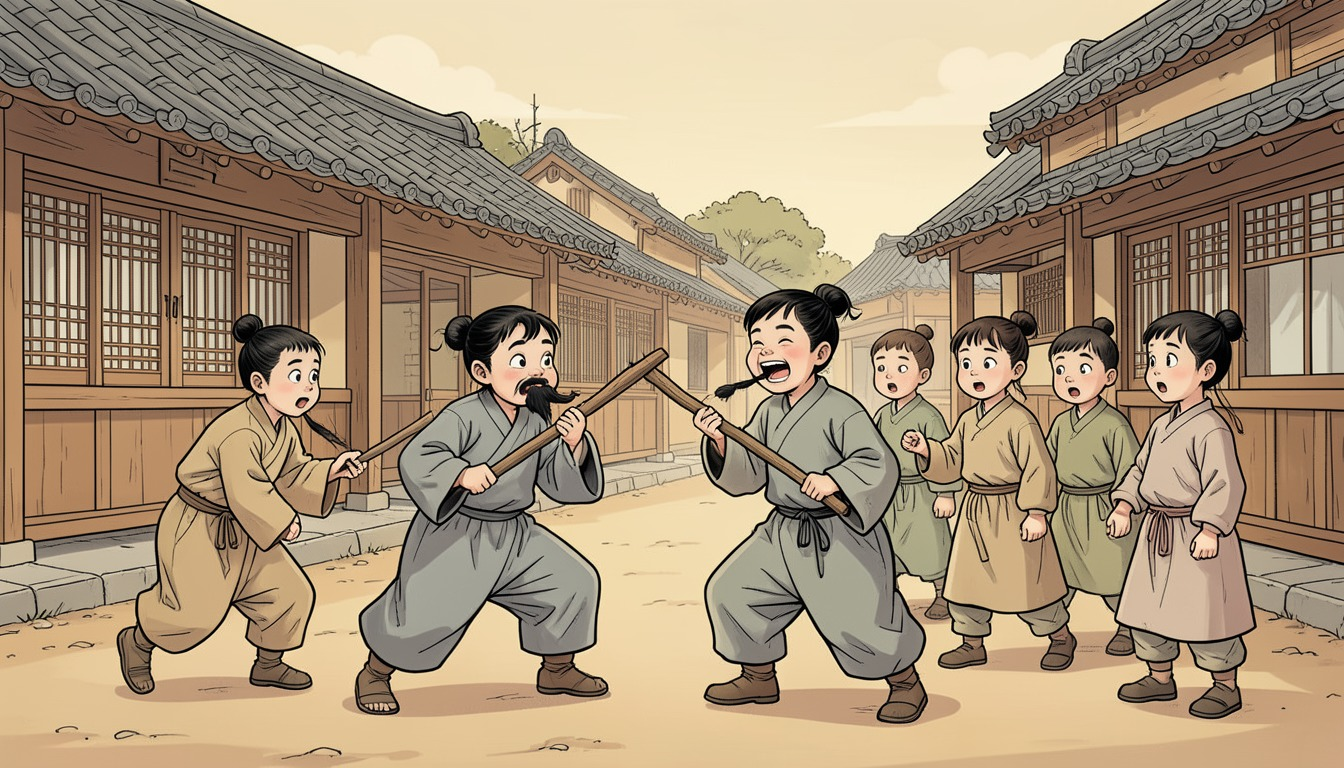
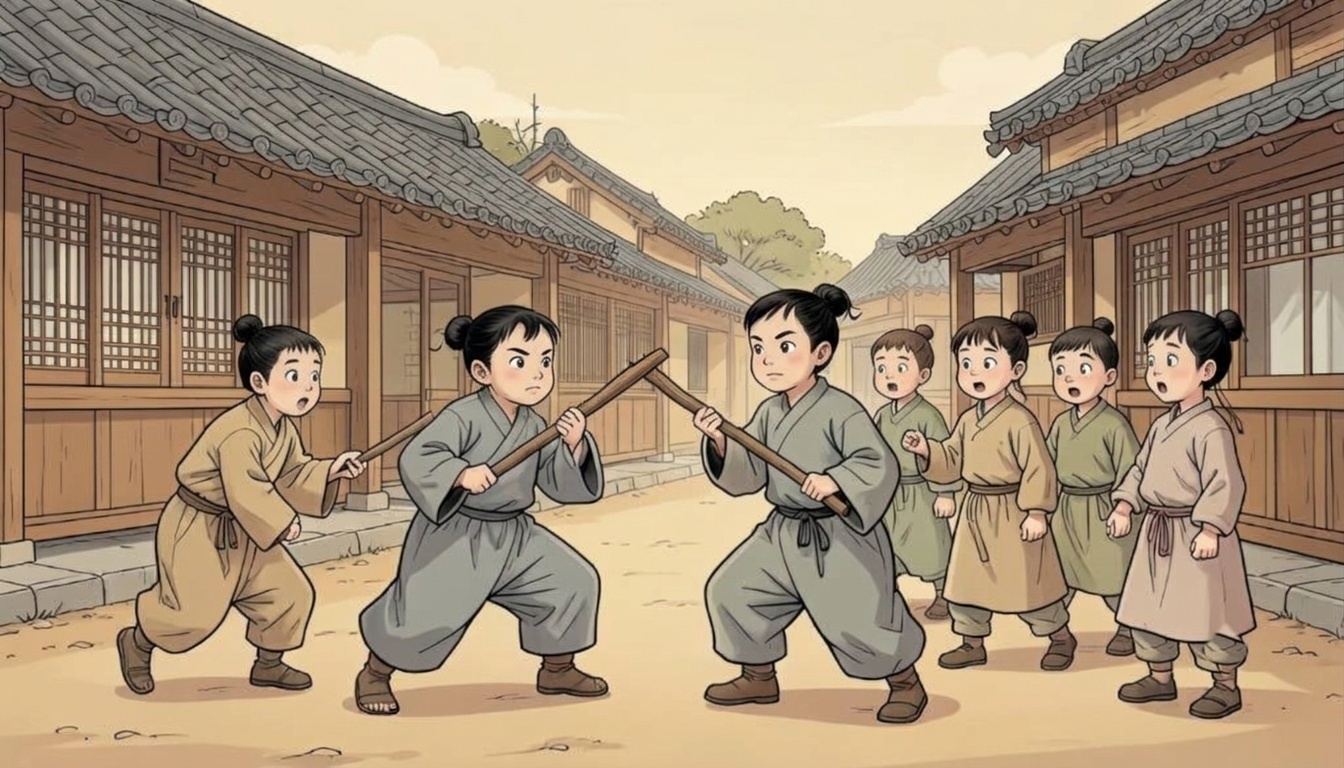
TQ10: thay ảnh 051 (bản chủ kênh sửa), viết lại 24 prompt Veo cụ thể theo mốc thời gian [skip ci]
Claude-Session: https://claude.ai/code/session_01H1Wbxj9sAcUYRQ6Wju6xqR

diff --git a/ke-hoach/vi-sao-ghet-tao-thao-veo.md b/ke-hoach/vi-sao-ghet-tao-thao-veo.md
@@ -1,7 +1,7 @@
 # Vì sao cả ngàn năm người ta ghét Tào Tháo? — Clip Veo (nhóm A, 24 clip)
 
 Soạn 03/11/2026 sau khi xem cả 74 ảnh ở cỡ lớn. **Tổng ảnh: 74. Số clip Veo: 24 (≥ 20). Số cảnh hoạt hình nhẹ: 16. Số ảnh tĩnh: 34.**
-Chọn theo tầm quan trọng của câu chuyện (mở đầu, lúc bước ngoặt, câu hỏi cuối), mỗi clip chỉ một hành động nhỏ và chậm kèm chuyển động phụ (gió, khói, nước, vạt áo, ánh sáng) để cảnh sống động mà ảnh không bị vẽ lại. Có 21 clip dự phòng cho trường hợp Veo vẽ lại khung đầu hoặc mọc thêm tay.
+Chọn theo tầm quan trọng của câu chuyện (mở đầu, lúc bước ngoặt, câu hỏi cuối), mỗi clip có diễn biến rõ ràng theo mốc thời gian (0-3 giây, 3-6 giây, 6-8 giây) hoặc chuỗi hành động cụ thể: người làm gì, phản ứng ra sao, máy quay đi thế nào, kèm chuyển động phụ (gió, khói, nước, vạt áo, ánh sáng) để cảnh sống động mà ảnh không bị vẽ lại. Có 21 clip dự phòng cho trường hợp Veo vẽ lại khung đầu hoặc mọc thêm tay.
 Lưu clip ở `assets/clips_2d/TQ10/NNN.mp4` (NNN = số câu = số ảnh), kèm `danh_sach.json`. Chủ kênh tạo clip trong Google Flow.
 
 ## Nhóm A — Veo (24 clip)
@@ -18,30 +18,30 @@ Chọn "Frames to Video", tải ảnh `assets/anh_2d/TQ10/NNN.jpg` làm khung đ
 
 | Ảnh | Câu | Cảnh (chỉ để tra, KHÔNG dán vào Veo) | Prompt chuyển động (dán sau tiền tố) |
 |---|---|---|---|
-| 001 | 1 | Con phố thành thị thời Tống buổi sáng, người đi lại, quán có mái vải, một xe kéo | Slow gentle push-in down the lively market street: townspeople stroll in both directions, a man pulls a small wooden cart, the cloth shop awnings ripple in a light breeze, a seated customer lifts his head to watch the passers-by, warm dust glows in the morning light. |
-| 002 | 2 | Người kể chuyện áo nâu đứng trên bục gỗ, sáu đứa trẻ ngồi quanh | Slow push-in towards the storyteller on the low wooden platform: he sweeps one raised arm in a wide storytelling gesture, his long sleeve swinging, then lowers it; the seated children lean forward together, their heads tilting and turning to follow his hand, a few shuffle on their knees with open-mouthed excitement. |
-| 003 | 3 | Lũ trẻ ngồi thành hàng, đứa khóc, đứa giơ nắm tay reo hò | Gentle camera sway as the children seated in a row react: the ones with tears sniff and rub their eyes, then the others thrust their raised fists up and down in joyful bursts with mouths wide open, topknots bouncing, small dust puffs rising from the ground. |
-| 012 | 12 | Người trẻ áo xanh đậm đối mặt ông già tóc râu bạc trong sân | Very slow lateral drift between the two men standing face to face in the courtyard: the young man's stern frown slowly softens into a pleased, proud smile while the white-bearded elder studies him and gives a slow nod, their sleeves and sashes sway in a light breeze, a few leaves skitter across the paving. |
-| 014 | 14 | Người viết sử ngồi trước bàn thấp trong sân, cầm bút | Very slow drift to the right as the scholar kneeling at the low table draws his brush smoothly across a scroll, pauses, dips it and writes again, his shoulders rise with a quiet breath, the grass at the courtyard edge sways and a breeze ruffles his sleeve. |
-| 021 | 21 | Dân chạy loạn đi dọc kênh, xe bò chở đồ, khói ở làng xa | Slow lateral tracking as the villagers move along the canal road: the ox carts roll forward with their wheels turning, a lone traveller trudges on carrying a bundle, grey smoke columns drift up from the village and the hills, the canal water ripples. |
-| 023 | 23 | Người đàn ông cao áo đen đứng cạnh cậu bé ngồi bên bàn | Very slow push-in as the tall man at the table presses his hand on it and turns his head to look down at the seated child; the child lifts his eyes to the man with a worried glance and his fingers shift on the table edge, soft light drifts across the wall. |
-| 027 | 27 | Người áo đen đưa chiếc mũ đen cao cho người áo xám đang đưa tay đón | Slow push-in as the man in black slowly holds out the tall black hat towards the man in grey, who reaches out and takes hold of its cord; the man in black gives a measured nod, their sleeves sway, wind stirs the sashes. |
-| 028 | 28 | Người chèo thuyền trên sông, buồm trắng, thuyền khác ở xa | Slow tracking alongside the boat as the boatman steers it forward along the river, the white sails billow, ripples spread behind the hull, distant boats glide, mist drifts over the water, a bird crosses the sky. |
-| 029 | 29 | Người áo xám đi giữa con hẻm lát đá | Slow dolly back as the man walks steadily down the stone lane toward the camera, arms swinging gently, his sash and trouser hems swaying, long shadows slide along the paving, a leaf drifts across the path. |
-| 034 | 34 | Người râu ngắn viết ban đêm bên đĩa dầu có ngọn lửa nhỏ, cạnh một bọc vải | Locked camera with slow drift: the writer at the night table moves his brush in short deliberate strokes, the small oil dish flame flickers and throws shifting warm light across his face and the cloth bundle, stars twinkle, a night breeze stirs his topknot. |
-| 036 | 36 | Người áo dài đi khuất dần trên con đường đất ướt, nhà đổ ở xa | Slow follow behind as the man in a long robe walks away down the damp lane, puddles ripple at each step, his robe hem sways, mist drifts between the roofs, a distant ruined building sits in the haze. |
-| 038 | 38 | Người lữ khách đeo bó thẻ tre sau lưng đi giữa phố núi lúc chạng vạng | Slow push-in as the traveller strides forward with the bundle on his back, sandals stepping on the dusty lane, his sleeves swaying, dusk light shifting, mountain mist drifting behind him. |
-| 045 | 45 | Người áo đen đi trên lối giữa dãy nhà, hai đứa trẻ đi hai bên | Slow lateral tracking as the man walks along the path between the long houses with a child on each side, the three step in an easy rhythm, bamboo and pine boughs sway, their sleeves flutter, a bird crosses the sky. |
-| 048 | 48 | Người béo cười, áo nâu, đứng bên lan can cầu, kênh và hoàng hôn | Slow drift as the smiling man at the bridge railing leans slightly and breathes in the sunset air, his broad sleeve and sash stir in the breeze, he gives a small slow nod while golden light ripples on the canal water. |
-| 050 | 50 | Ông già áo nâu đi ngược lưng về phía xa dọc bờ kênh | Slow follow behind as the old man in a brown robe walks steadily along the stone embankment, his robe sways, the canal water ripples beside him, tree leaves flutter, the light shifts slowly. |
-| 051 | 51 | Đám trẻ chơi trò đánh nhau giả, một đứa đeo râu giả cầm gậy | Slow lateral drift as the children play a mock duel in the lane with no contact: the boy with the long stick swings it in a slow exaggerated arc while the boy opposite staggers back laughing, the smaller children bounce and clap, their sleeves flap, dust puffs at their feet. |
-| 052 | 52 | Người kể chuyện dang hai tay trước quán gỗ sáng đèn | Slow push-in as the storyteller throws both arms wide, then brings them in with a slow dramatic flourish, his long sleeves swinging, warm light from the lattice windows flickering behind him, he leans forward and back with a breath. |
-| 055 | 55 | Người viết ngồi bên bàn thấp, cuộn thẻ, hộp gỗ, cửa sổ chấn song | Slow drift as the writer kneeling at the low table draws the brush down the scroll in smooth strokes, pauses to think, then writes again, window light shifts across the floor mat, a gentle breeze moves his sleeve. |
-| 062 | 62 | Người cưỡi ngựa nâu sẫm đi trên con đường làng | Slow lateral tracking as the rider guides the dark horse forward at a calm walking pace, the horse's legs move in a natural regular gait, its mane and tail sway, his sleeves flutter, dust rises at the hooves, mist drifts along the lane. |
-| 064 | 64 | Ông già râu bạc cười, giơ cây gậy nhỏ, nắng sớm phía sau | Slow push-in as the smiling old man raises the small stick in his hand and lets it fall with a flourish, his sleeve swinging, warm sunrise light glowing behind him, dust motes floating in the air. |
-| 065 | 65 | Người áo choàng đen đứng trên bãi biển, sóng vỗ | Slow push-in as the sea wind whips the man's dark cloak and sleeves, waves roll in and break near his feet, his head turns slowly out toward the horizon, clouds drift. |
-| 073 | 73 | Người áo đen đứng chính diện giữa ngõ, nhìn thẳng | Barely perceptible push-in on the standing man: he draws a slow breath, blinks once, his eyes sweeping slowly from left to right, a breeze moves his sleeves and sash, cloud shadows drift across the walls. |
-| 074 | 74 | Sáu đứa trẻ ngồi hàng dưới gốc cây lớn | Slow drift as the six children under the tree glance at one another, then turn their heads toward the camera one after another with curious questioning looks, tree leaves rustle, dappled light moves across them, one child swings her feet. |
+| 001 | 1 | Con phố thành thị thời Tống buổi sáng, người đi lại, quán có mái vải, một xe kéo | Camera glides forward down the middle of the street. A shopkeeper at the left stall sweeps his arm to wave a passer-by over, two men at the roadside table clink cups and laugh, the cart puller leans into his load and the cart rolls on, the awnings snap in a gust and the crowd in the far background thickens and flows toward the camera. |
+| 002 | 2 | Người kể chuyện áo nâu đứng trên bục gỗ, sáu đứa trẻ ngồi quanh | 0-3s: the storyteller strikes a pose, one arm thrust high, then swings it down in a sweeping arc as if a hero fell. 3-6s: the children gasp together, lean forward and shuffle closer on their knees, heads snapping toward his hand. 6-8s: he lowers his voice with a hush gesture and the children freeze wide-eyed. Sleeves swing the whole time; camera pushes in on the group. |
+| 003 | 3 | Lũ trẻ ngồi thành hàng, đứa khóc, đứa giơ nắm tay reo hò | 0-3s: the two children with tears sniff, rub their eyes with both sleeves and slump. 3-6s: the others explode into cheers, fists pumping up and down, mouths wide open, heads thrown back, topknots bouncing, dust puffing from the ground. 6-8s: the crying ones look sideways at the cheering ones and pout. Camera shakes lightly with the excitement. |
+| 012 | 12 | Người trẻ áo xanh đậm đối mặt ông già tóc râu bạc trong sân | 0-3s: the elder sizes the young man up, eyes moving slowly from his face to his belt and back, stroking nothing, shoulders still. 3-6s: he leans a little closer and speaks a short sentence, mouth moving, then gives a firm nod. 6-8s: the young man's frown breaks into a pleased grin, chest lifting. Camera drifts sideways between them; sleeves and sashes sway, dry leaves skitter across the paving. |
+| 014 | 14 | Người viết sử ngồi trước bàn thấp trong sân, cầm bút | 0-3s: the scholar dips his brush and draws one long downward stroke along the scroll. 3-6s: he lifts the brush, glances up at the sky as if recalling a fact, then bends and writes quickly. 6-8s: he sets the brush down and straightens his back with a deep breath. Camera drifts right across the courtyard; grass sways, a breeze flutters his sleeve. |
+| 021 | 21 | Dân chạy loạn đi dọc kênh, xe bò chở đồ, khói ở làng xa | The line of villagers trudges forward with real weight: ox carts lurch and wheels turn, a mother shifts a bundle from one shoulder to the other, an old man leans on a staff, a child looks back over his shoulder. Camera tracks sideways at walking speed; grey smoke columns bend in the wind and the canal water ripples. |
+| 023 | 23 | Người đàn ông cao áo đen đứng cạnh cậu bé ngồi bên bàn | 0-3s: the tall man leans forward on the table, planting his palm, and fixes the child with a hard stare. 3-6s: the child shrinks a little, eyes darting up to him, small fingers curling on the table edge. 6-8s: the man straightens up and glances away toward the window while the child keeps watching him. Camera creeps in; light slides across the wall. |
+| 027 | 27 | Người áo đen đưa chiếc mũ đen cao cho người áo xám đang đưa tay đón | 0-3s: the man in black lifts the tall hat in both hands and holds it out with ceremony. 3-6s: the man in grey hesitates, then reaches out and takes hold of the cord. 6-8s: the man in black releases it with a firm nod and steps back a half pace. Camera pushes in on the hat between them; sleeves sway, wind tugs the sashes. |
+| 028 | 28 | Người chèo thuyền trên sông, buồm trắng, thuyền khác ở xa | The boatman rows with two strong strokes, the boat surges forward and the white sails belly out; ripples fan out behind the hull, spray glitters, a far boat crosses the frame, mist rolls over the water and a bird sweeps past. Camera tracks alongside the boat at its speed. |
+| 029 | 29 | Người áo xám đi giữa con hẻm lát đá | The man strides toward the camera with a confident, brisk walk, arms swinging, sash and trouser hems whipping; he glances left at a doorway, then back ahead. Camera dollies backward in front of him at his speed; long shadows slide along the paving and a leaf tumbles across the path. |
+| 034 | 34 | Người râu ngắn viết ban đêm bên đĩa dầu có ngọn lửa nhỏ, cạnh một bọc vải | 0-3s: the writer jots short quick strokes, brush moving left to right, then pauses to think, eyes lifting to the flame. 3-6s: the oil-dish flame flares and shrinks in a draught, warm light pulsing across his face and the bundle. 6-8s: he rubs his tired eyes with one hand and resumes writing. Stars twinkle; the camera inches in. |
+| 036 | 36 | Người áo dài đi khuất dần trên con đường đất ướt, nhà đổ ở xa | The man walks away from the camera with a heavy, slow-footed stride, shoulders sagging, robe hem swinging; he steps through a puddle and rings spread, pauses for one beat to glance at the ruined building in the haze, then walks on. Mist rolls between the rooftops. Camera follows behind at his pace. |
+| 038 | 38 | Người lữ khách đeo bó thẻ tre sau lưng đi giữa phố núi lúc chạng vạng | The traveller strides toward the camera with a steady, determined walk, the bundle on his back bouncing slightly with each step, sandals kicking up dust, sleeves swaying; he adjusts the strap with one hand and keeps going. Dusk mist rolls down from the mountains behind him. Camera backs away smoothly. |
+| 045 | 45 | Người áo đen đi trên lối giữa dãy nhà, hai đứa trẻ đi hai bên | The man and the two children walk toward the camera in step; the child on the left tugs his sleeve and points to the sky, the man bends his head to listen and nods, the child on the right skips one step ahead. Bamboo and pine boughs sway, a bird flies across, camera tracks sideways with them. |
+| 048 | 48 | Người béo cười, áo nâu, đứng bên lan can cầu, kênh và hoàng hôn | 0-3s: the smiling man leans on the railing and takes a deep breath of the evening air, chest rising. 3-6s: he lifts one hand to stroke his moustache and gives a pleased nod toward the sunset. 6-8s: he laughs softly, shoulders shaking. Golden light ripples on the canal, his broad sleeve and sash stir in the breeze; camera drifts gently left. |
+| 050 | 50 | Ông già áo nâu đi ngược lưng về phía xa dọc bờ kênh | The old man walks away from the camera with the small deliberate steps of age, one hand resting behind his back, robe swinging; he pauses a beat and tilts his head toward the water, then walks on. Canal water ripples, tree leaves flutter, shifting light slides along the stone embankment. Camera follows behind. |
+| 051 | 51 | Hai cậu bé áo xám chĩa gậy vào nhau (đấu giả), một cậu áo vàng nâu bên trái cầm gậy lao tới, bốn đứa nhỏ đứng xem bên phải | The two boys in grey clash their wooden sticks in a mock duel with no contact on their bodies: stick taps stick, the left boy lunges and the right boy skips back, then they swap sides and circle each other, scowling playfully. The boy at the far left stamps forward with his stick raised, and the four small onlookers on the right flinch, gasp and bounce on their toes. Dust puffs at their feet; camera drifts sideways. |
+| 052 | 52 | Người kể chuyện dang hai tay trước quán gỗ sáng đèn | 0-3s: the storyteller throws both arms wide, chest out, mouth open in a bellow. 3-6s: he sweeps both arms in with a dramatic flourish, then crouches slightly and leans toward the audience as if sharing a secret. 6-8s: he straightens up and spreads one hand to the side. Long sleeves swing, warm light flickers through the lattice windows; camera pushes in. |
+| 055 | 55 | Người viết ngồi bên bàn thấp, cuộn thẻ, hộp gỗ, cửa sổ chấn song | 0-3s: the writer draws the brush down the scroll in smooth strokes, pauses and tilts his head, thinking. 3-6s: he glances up toward the window, then writes a line quickly. 6-8s: he lifts the finished line to look at it and gives a small satisfied exhale. Window light shifts across the mat; a breeze moves his sleeve; camera drifts right. |
+| 062 | 62 | Người cưỡi ngựa nâu sẫm đi trên con đường làng | The rider urges the dark horse forward at a steady walk; its hooves land in clear four-beat rhythm, head bobbing, mane and tail swaying; the rider sits upright, scanning left and right along the lane, his sleeves fluttering. Dust rises at the hooves, mist rolls along the walls. Camera tracks sideways at the horse's pace. |
+| 064 | 64 | Ông già râu bạc cười, giơ cây gậy nhỏ, nắng sớm phía sau | 0-3s: the laughing old man raises the small stick high. 3-6s: he brings it down with a flourish, as if sealing a punchline, then spreads his other hand to the side and grins. 6-8s: he leans in, whispering conspiratorially. Sleeves swing, sunrise glows behind him, dust motes float in the beams; camera pushes in. |
+| 065 | 65 | Người áo choàng đen đứng trên bãi biển, sóng vỗ | Strong sea wind: the man's dark cloak and sleeves snap behind him; waves surge in and break around his feet in white foam; he turns his head slowly from the sea to the horizon and squares his shoulders. Clouds race across the sky, spray drifts through the air. Camera pushes in, trembling slightly in the wind. |
+| 073 | 73 | Người áo đen đứng chính diện giữa ngõ, nhìn thẳng | The man stands firm facing the camera: he draws a deep breath, his chest rising, blinks once, then fixes the viewer with a steady direct gaze; his sleeves and sash stir in a gust and cloud shadows sweep across the walls behind him. Camera creeps in by a hair. |
+| 074 | 74 | Sáu đứa trẻ ngồi hàng dưới gốc cây lớn | 0-3s: the six children under the tree glance at each other, whispering, one nudges her neighbour. 3-6s: they turn their heads toward the camera one after another with big questioning eyes, a boy tilts his head. 6-8s: they all hold still, waiting for an answer, one child swings her feet. Leaves rustle, dappled light flickers across them; camera drifts closer. |
 
 ## Nhóm B — hoạt hình nhẹ bằng `anim_nhe.py` (16 cảnh, không dùng AI)
 
